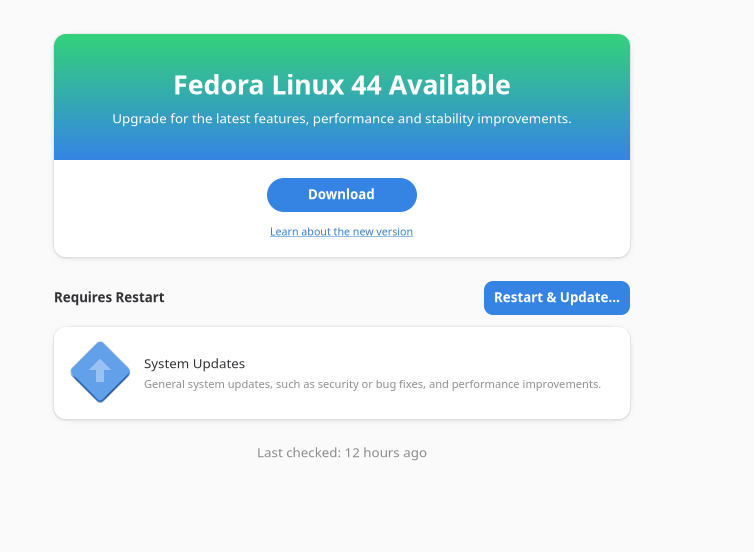
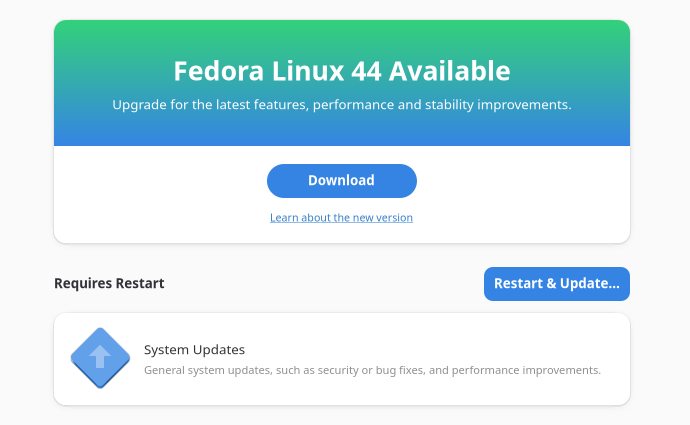
Add more information

diff --git a/content/gnome_software_integration/screenshots.md b/content/gnome_software_integration/screenshots.md
@@ -1,10 +1,88 @@
 ---
-title: Screenshots
-weight: 5
+title: Disable screenshots
+weight: 4
 next: 
 ---
 
-`qubes-gnome-software-plugin` disables screenshots before loading. This was due to security concerns regarding the downloading and rending of media from external sources.
+The `qubes-gnome-software-plugin` disables screenshots before loading, due to security concerns.
+
+{{< callout type="info" >}}
+Previously, in Qubes templates Gnome Software was not displaying screenshots, as it didn't have internet connection. However, when integrating Gnome Software with Qubes, it needed access to the updates proxy for [Flatpak support](../flatpak), causing it to have internet connection and download screenshots.{{< /callout >}}
+
+## Gnome Software Screenshots
+
+Gnome Software screenshots follow [AppStream](https://www.freedesktop.org/software/appstream/docs/chap-Metadata.html#tag-screenshots) to get the metadata for each repository.
+
+### Data type
+
+Appstream [screenshots](https://www.freedesktop.org/software/appstream/docs/chap-Metadata.html#tag-screenshots) can be images or videos, both with restricted formats. Gnome Software supports both images and [videos as screenshots](https://github.com/GNOME/gnome-software/blob/0075f5af2508e19221c183fe192ba7f50847052c/NEWS#L961).
+
+
+<table>
+  <thead>
+    <tr>
+      <th>Screenshots</th>
+      <th>Data type</th>
+      <th style="text-align:center; background-color:#dbeafe">Notes</th>
+    </tr>
+  </thead>
+  <tbody>
+    <tr>
+      <td><strong>Image</strong></td>
+      <td>PNG [recommended], JPEG, WebP or JXL</td>
+      <td style="background-color:#dbeafe">Fedora, Debian and Flathub screenshots displayed in Gnome Software are all PNG.</td>
+    </tr>
+    <tr>
+      <td><strong>Video</strong></td>
+      <td> <a href="https://www.matroska.org/">Matroska (.mkv)</a> or <a href="https://www.webmproject.org/">WebM</a> container and use <a href="https://www.webmproject.org/vp9/">VP9</a> or <a href="https://aomedia.org/av1-features/">AV1</a> codec </td>
+      <td style="background-color:#dbeafe">Fedora, Debian and Flathub don't have videos in their appstream repos.</td>
+    </tr>
+  </tbody>
+</table>
+
+### Sources
+[Screenshots](https://gnome.pages.gitlab.gnome.org/gnome-software/help/C/software-metadata.html#screenshots) are sourced from the following locations:
+
+| Template | Application Sources      | Local appstream software catalog | Image URLs included |
+|----------|--------------------------|----------------------------------|---------------------|
+| Fedora   | dnf (via packagekit)     | `/usr/share/swcatalog/xml/ `       | http://dl.fedoraproject.org/pub/alt/screenshots/f43/ |
+| Fedora / Debian  | Gnome web apps   | `/usr/share/swcatalog/xml/`        | urls related to each app's website  |
+| Debian   | apt (via packagekit)     | `/var/lib/swcatalog/yml/`           | https://appstream.debian.org/media/trixie |
+| Fedora / Debian  | Flathub (3rd party Flatpak) | `/var/lib/flatpak/appstream/flathub/` | https://dl.flathub.org/media/app/ |
+
+{{< callout type="error" >}}
+**Security Concerns**
+- In Fedora, screenshots are sourced from an **HTTP** website
+- Screenshots from webapps are sourced from each **project website**
+- Screenshots are **not cryptographically signed**
+
+{{< /callout >}}
+
+### Security mitigations
+
+Only a few screenshot's security mitgations were found do be addressed by Gnome Software.
+
+{{% steps %}}
+
+#### Checking screenshots [type](https://github.com/GNOME/gnome-software/blob/147fab181c3f4c19b5ff897b8f5c827428cef396/plugins/core/gs-plugin-appstream.c#L222).
+
+
+#### [URL validation](https://github.com/GNOME/gnome-software/blob/147fab181c3f4c19b5ff897b8f5c827428cef396/src/gs-screenshot-image.c#L736) when downloading screenshots.
+
+
+#### [GskPixbuf](https://github.com/GNOME/gdk-pixbuf) loading to check if screenshots [are images and are not corrupted](https://github.com/GNOME/gnome-software/blob/147fab181c3f4c19b5ff897b8f5c827428cef396/src/gs-screenshot-image.c#L416).
+
+{{% /steps %}}
+
+
+## Solution
+
+A simple Gnome Software plugin was created for Qubes integrations, where the `refine_async` plugin function clears screenshots from each application. This way, no screenshot is downloaded and the user can see a "No Screenshots" image instead.
+
+The image below shows what this solution looks like from the user perspective:
+
+<img width="998" height="994" alt="Image" src="https://github.com/user-attachments/assets/7b63a7a8-b0b9-44a1-917a-25e5e9365dc2" />
+
 
 ---
 

diff --git a/content/gnome_software_integration/disable_updates_upgrades.md b/content/gnome_software_integration/disable_updates_upgrades.md
@@ -4,20 +4,33 @@ weight: 2
 next: 
 ---
 
-{{< cards cols="1" >}}
+{{< cards >}}
   {{< card 
-    title="Fedora Upgrade Banner"
+    title="Upgrades"
     image=/images/banner.png
-    imageStyle="object-fit:cover; aspect-ratio:16/9;"
+    subtitle="This banner would encourage users to upgrade Fedora via Gnome Software when a new version is available."
+    tag="Fedora"
+    tagColor="red"
+  >}}
+  {{< card 
+    title="Updates"
+    image=/images/updates_tab.png
+    subtitle="Gnome Software had a dedicated page to manage updates and would send notifications when updats are available."
   >}}
 {{< /cards >}}
 
-When a new Fedora version was available it encouraged users to upgrade the system, which wouldn't work.
 
-Updates were already broken as they were done assuming Gnome Software would be able to restart the system, which can't happen in Qubes. Furthermore, Qubes already has native tools for updates that should be used instead.
+{{< callout type="error" >}}
+  Updates and updates didn't work in Qubes as they required Gnome Software itself to be able to restart the system, which is not possible.
+{{< /callout >}}
 
-Due to these issues, updates and upgrades via Gnome Software were disabled.
+## Solution
+Updates and upgrades were disables via gsettings, by overriding ```org.gnome.software allow-updates``` to ```false```.
 
 ---
+
+{{< cards cols="1" >}}
+  {{< card title="Summary" icon="clipboard-list" subtitle="Updates and upgrades via Gnome Software were disabled and Qubes native tools should be used instead." >}}
+{{< /cards >}}
 
 {{< cards >}} {{< card link=https://github.com/QubesOS/qubes-issues/issues/10984 title="Issue" icon="github" >}} {{< card link=https://github.com/QubesOS/qubes-core-agent-linux/pull/664 title="Pull Request" icon="code" >}} {{< /cards >}}

diff --git a/content/gnome_software_integration/open_urls_in_dispvms.md b/content/gnome_software_integration/open_urls_in_dispvms.md
@@ -1,14 +1,15 @@
 ---
 title: Open URLs in disposables
-weight: 3
+weight: 5
 next: 
 ---
 
 It aims to open Gnome Software URLs (project website, donation pages, etc.) in disposables.
 
-This allows the user to check the project website safely before installing apps, while reducing the need for screenshots to recognize the apps in Gnome Software ([qubes-issues#10983](https://github.com/QubesOS/qubes-issues/issues/10983)).
+This allows the user to check the project website safely before installing apps, while reducing the need for [screenshots](../screenshots) to recognize the apps in Gnome Software.
 
-Previously, URLs were opened in offline browsers. However, if Gnome Software had access to the updates proxy (e.g. for Flatpak related actions) it would pass the proxy configurations to the browser and open the URL online.
+{{< callout type="info" >}}
+Previously, in Qubes templates URLs were opened in offline browsers.  However, when integrating Gnome Software with Qubes, it needed access to the updates proxy for [Flatpak support](../flatpak), causing it to pass the proxy configurations to the browser and open URLs online.{{< /callout >}}
 
 ---
 

diff --git a/content/gnome_software_integration/disable_open.md b/content/gnome_software_integration/disable_open.md
@@ -1,12 +1,17 @@
 ---
 title: Disable Opening Apps
-weight: 4
+weight: 6
 next: 
 ---
 
-It removes the ability to launch apps from Gnome Software as a mitigation for opening software in templates.
+The `qubes-gnome-software-plugin` plugin removes the ability to launch apps from Gnome Software, as a mitigation for opening software with internet connection, in templates.
 
-This is a very small plugin that works for Debian and Fedora templates.
+{{< callout type="info" >}}
+Previously, in Qubes templates applications were opened without internet connection. However, when integrating Gnome Software with Qubes, it needed access to the updates proxy for [Flatpak support](../flatpak), causing it to pass the proxy configurations to each app and open them with internet connection.{{< /callout >}}
+
+The image below shows what this solution looks like from the user perspective:
+
+<img width="998" height="994" alt="Image" src="https://github.com/user-attachments/assets/7b63a7a8-b0b9-44a1-917a-25e5e9365dc2" />
 
 ---
 

diff --git a/content/gnome_software_integration/proxy.md b/content/gnome_software_integration/proxy.md
@@ -1,11 +1,19 @@
 ---
 title: Proxy in Templates
-weight: 6
+weight: 3
 next: 
 ---
-Makes Gnome Software work in templates with the [Qubes updates proxy](https://doc.qubes-os.org/en/latest/user/how-to-guides/how-to-install-software.html#updates-proxy).
+For Flatpak to be able to work via Gnome Software, the [Qubes updates proxy](https://doc.qubes-os.org/en/latest/user/how-to-guides/how-to-install-software.html#updates-proxy) was required.
 
-This is needed to make Flatpak work in Gnome Software.
+As Gnome Software runs Flatpak as a library, the proxy would only be set in Flatpak if it was provided by Gnome Software.
+
+{{< callout type="warning" >}}
+  This approach created other problems, which were also addressed:
+  1. Gnome Software would [display screenshots](../screenshots).
+  2. URLs would be opened in [online](../open_urls_in_dispvms) browsers.
+  3. App would be opened with [internet connection](../disable_open).
+
+{{< /callout >}}
 
 ---
 

diff --git a/content/software_manager_selection.md b/content/software_manager_selection.md
@@ -201,7 +201,8 @@ Each software manager was evaluated against the following criteria.
 
 {{% /steps %}}
 
+---
 
-## Summary
-Gnome Software was selected as default the Software Manager in Qubes because comparing with the other solutions, it aligns UX, useful repos and an acceptable size. 
-It is very similar to KDE Discover, however it was chosen for being considerably lighter.
+{{< cards cols="1" >}}
+  {{< card title="Summary" icon="clipboard-list" subtitle="Gnome Software was selected as default the Software Manager in Qubes because comparing with the other solutions, it aligns UX, useful repos and an acceptable size. It is very similar to KDE Discover, however it was chosen for being considerably lighter." >}}
+{{< /cards >}}

diff --git a/content/gnome_software_integration/_index.md b/content/gnome_software_integration/_index.md
@@ -9,4 +9,16 @@ When selecting a Software Manager, the criteria was based on each software funci
 
 ---
 
+{{< cards >}}
+  {{< card link="./packagekit" title="Fixing PackageKit" icon="cog" >}}
+  {{< card link="./disable_updates_upgrades" title="Disable Updates and Upgrades" icon="pause" >}}
+  {{< card link="./open_urls_in_dispvms" title="Open URLs in disposables" icon="link" >}}
+  {{< card link="./disable_open" title="Disable Opening Apps" icon="ban" >}}
+  {{< card link="./screenshots" title="Screenshots" icon="camera" >}}
+  {{< card link="./proxy" title="Proxy in Templates" icon="globe-alt" >}}
+  {{< card link="./flatpak" title="Flatpak support" icon="cube" >}}
+{{< /cards >}}
+
+---
+
 
